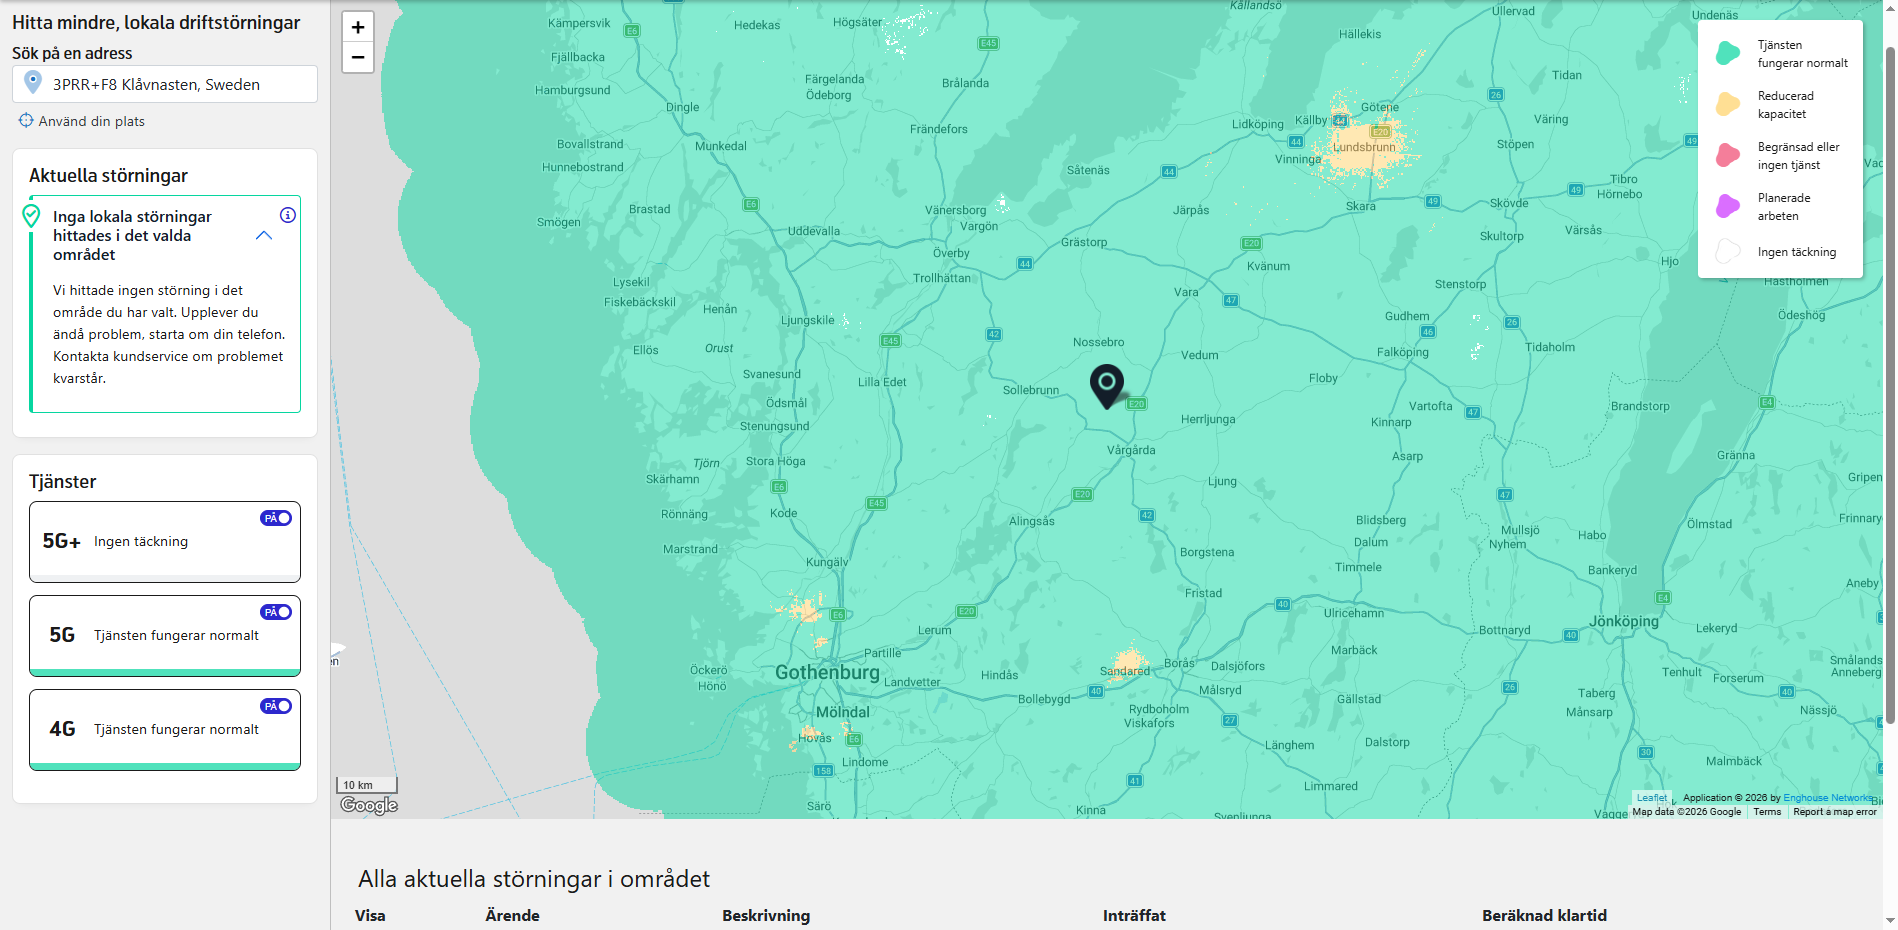
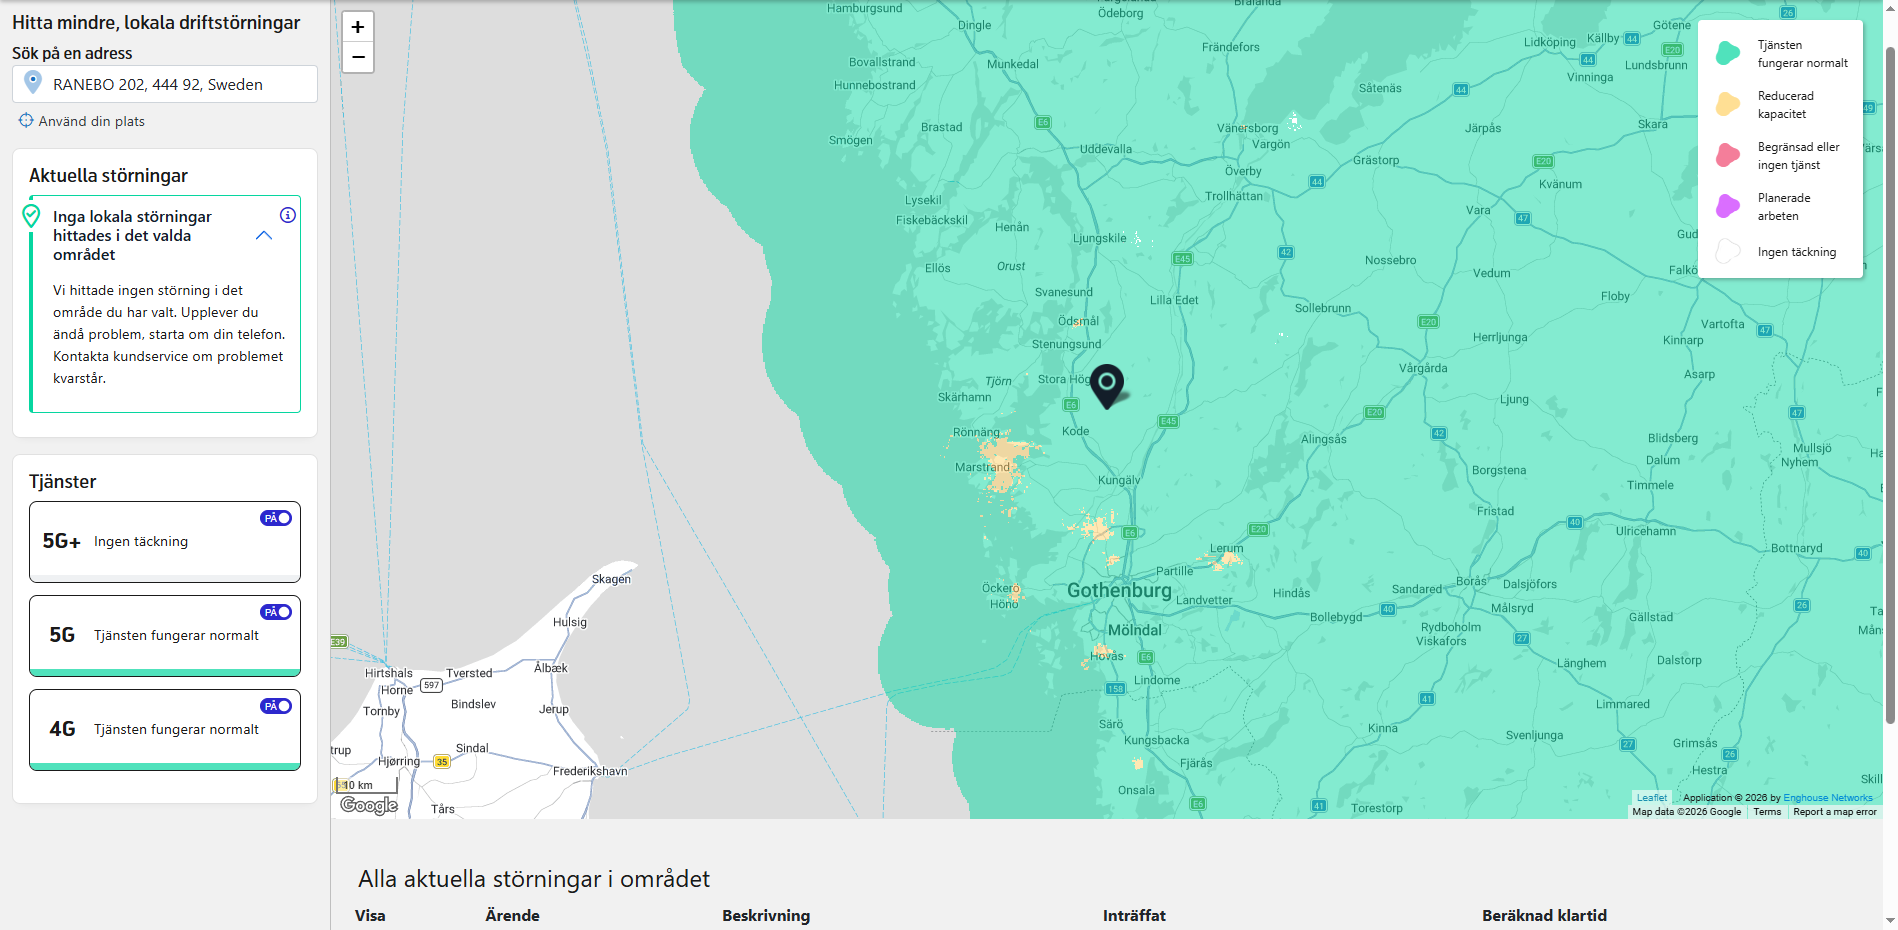
feat: add admin page and remove ad-blocking styles from selenium output

diff --git a/frontend/src/app/admin/page.js b/frontend/src/app/admin/page.js
@@ -279,7 +279,6 @@ export default function AdminPage() {
                         >
                             <option value="">{lang === "sv" ? "Alla operatörer" : "All Operators"}</option>
                             <option value="telia">Telia</option>
-                            <option value="tele2">Tele2</option>
                             <option value="lycamobile">Lycamobile</option>
                             <option value="tre">Tre</option>
                         </select>
@@ -330,7 +329,7 @@ export default function AdminPage() {
                     </p>
                     <ul style={{ margin: 0, paddingLeft: '20px', fontSize: '0.85rem', color: 'var(--text-primary)', display: 'grid', gridTemplateColumns: 'repeat(auto-fit, minmax(200px, 1fr))', gap: '8px' }}>
                         <li><strong>Telia:</strong> Halebop, Fello</li>
-                        <li><strong>Tele2:</strong> Comviq</li>
+                        <li><strong>Tele2:</strong> Comviq (shares network with Telenor)</li>
                         <li><strong>Telenor:</strong> Lycamobile, Vimla, Fibio</li>
                         <li><strong>Tre:</strong> Hallon</li>
                     </ul>